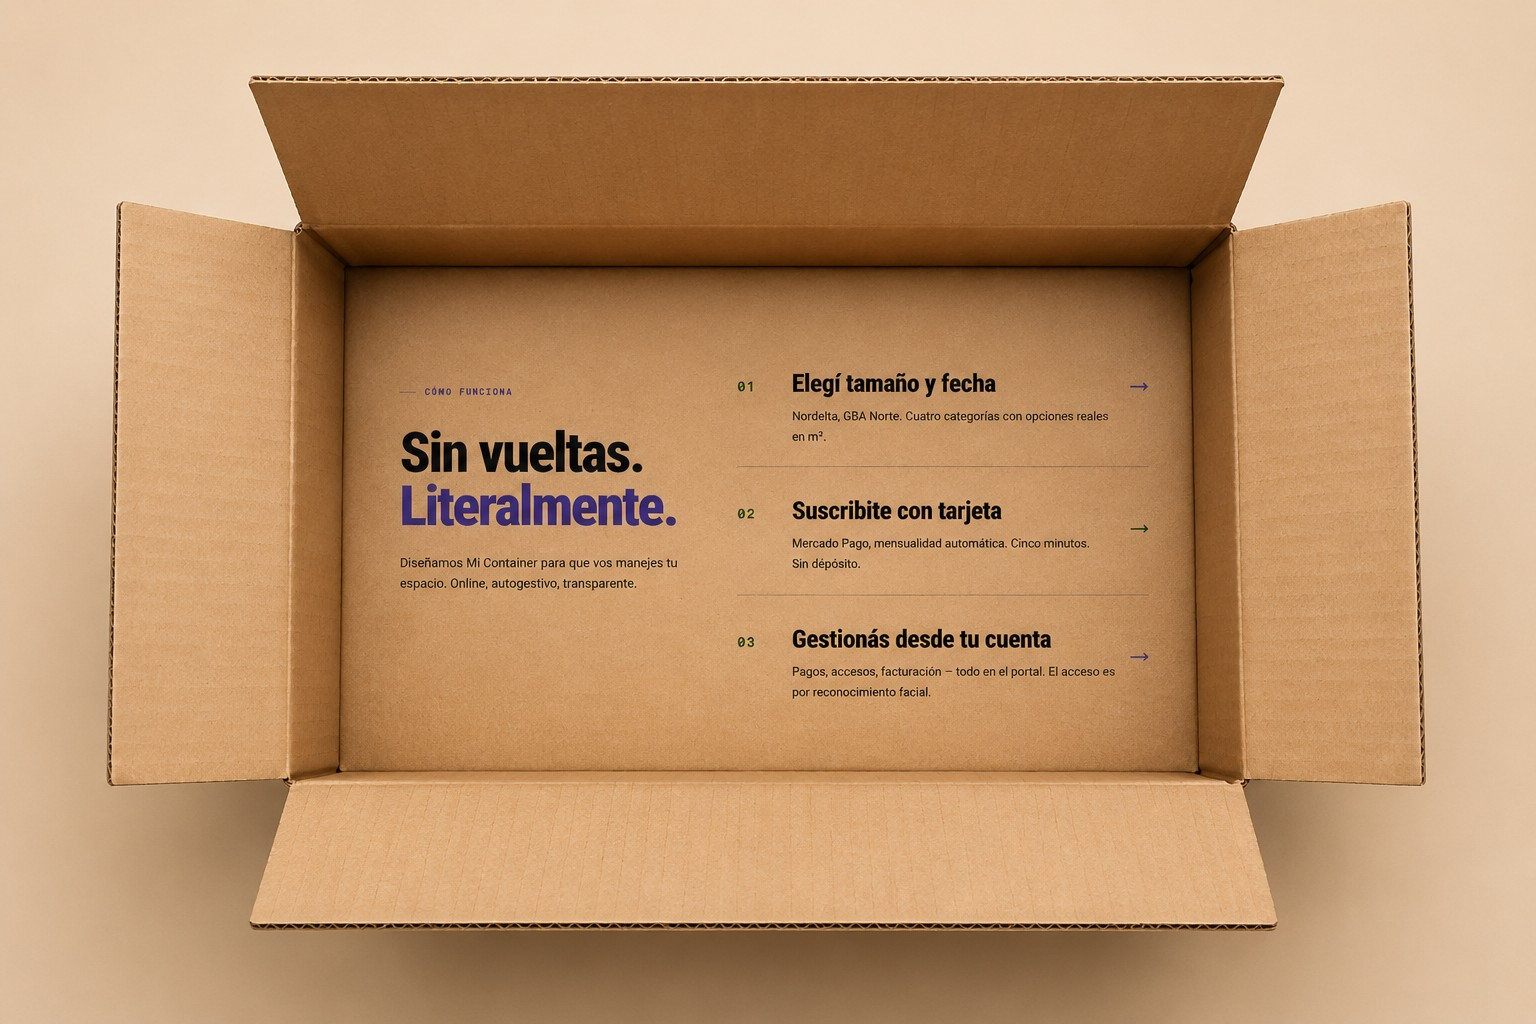
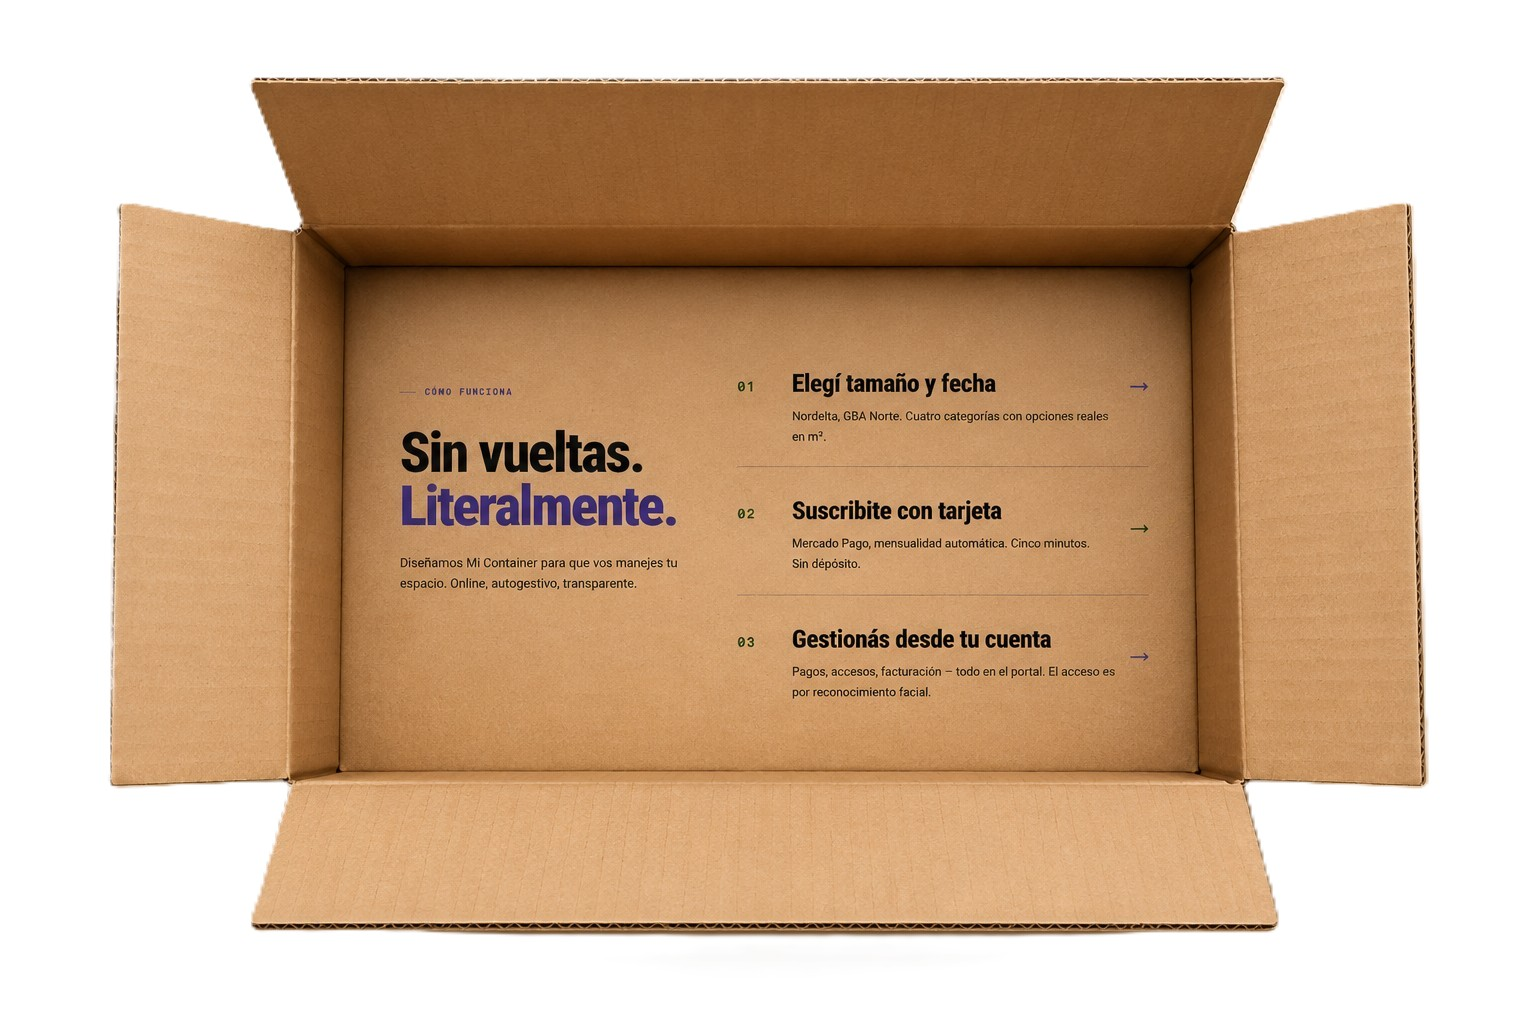
feat: box with white bg + mix-blend-mode multiply = transparent effect
New image has white background (not beige). mix-blend-mode:multiply
makes white pixels invisible against the white page — cardboard stays.
No canvas script needed. Full 1280px width matching content containers.

diff --git a/styles.css b/styles.css
@@ -3322,7 +3322,8 @@ body   { background: #ffffff; }
   overflow: visible !important;
   padding: 0 !important;
   background: transparent !important;
-  max-width: 1160px !important;
+  max-width: 1280px !important;
+  width: 100% !important;
   margin-left: auto !important;
   margin-right: auto !important;
   filter: drop-shadow(0 32px 64px rgba(61,48,131,0.18));
@@ -3333,4 +3334,6 @@ body   { background: #ffffff; }
 .mc-how-box-img {
   width: 100%;
   display: block;
+  /* Fondo blanco desaparece: blanco × blanco = blanco, cartón × blanco = cartón */
+  mix-blend-mode: multiply;
 }

diff --git a/home.jsx b/home.jsx
@@ -700,7 +700,8 @@ function How() {
   return (
     <section className="mc-how" id="how">
       <img
-        src="assets/box-render.png"
+        id="how-box-img"
+        src="assets/box-render.jpg"
         alt="Cómo funciona Mi Container"
         className="mc-how-box-img"
       />
